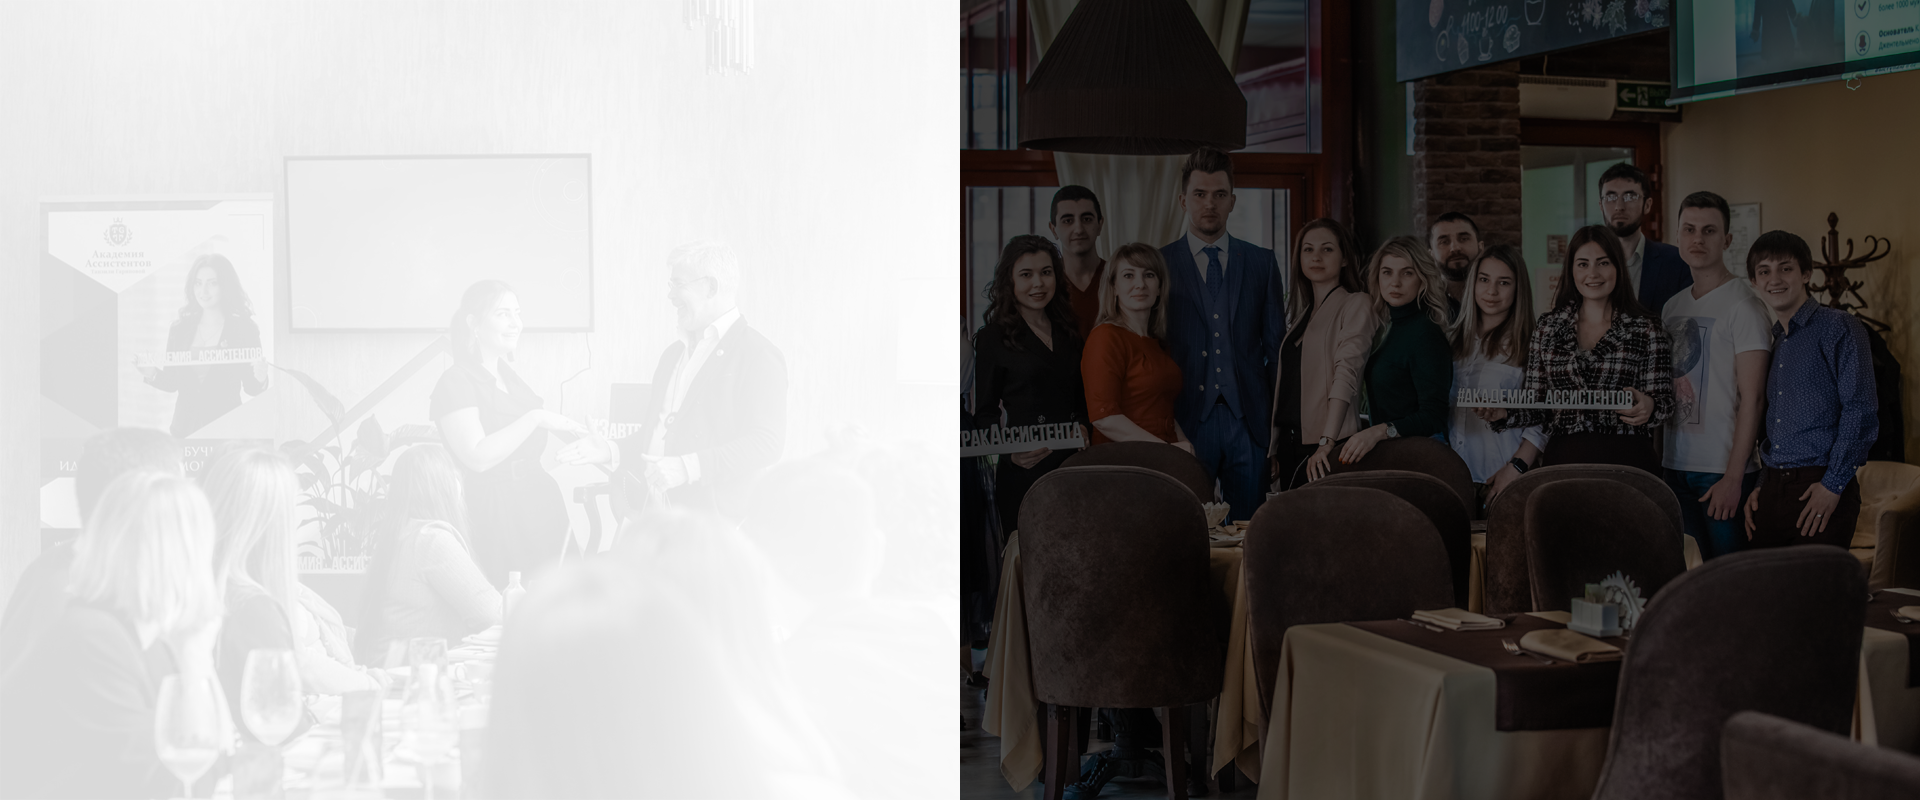
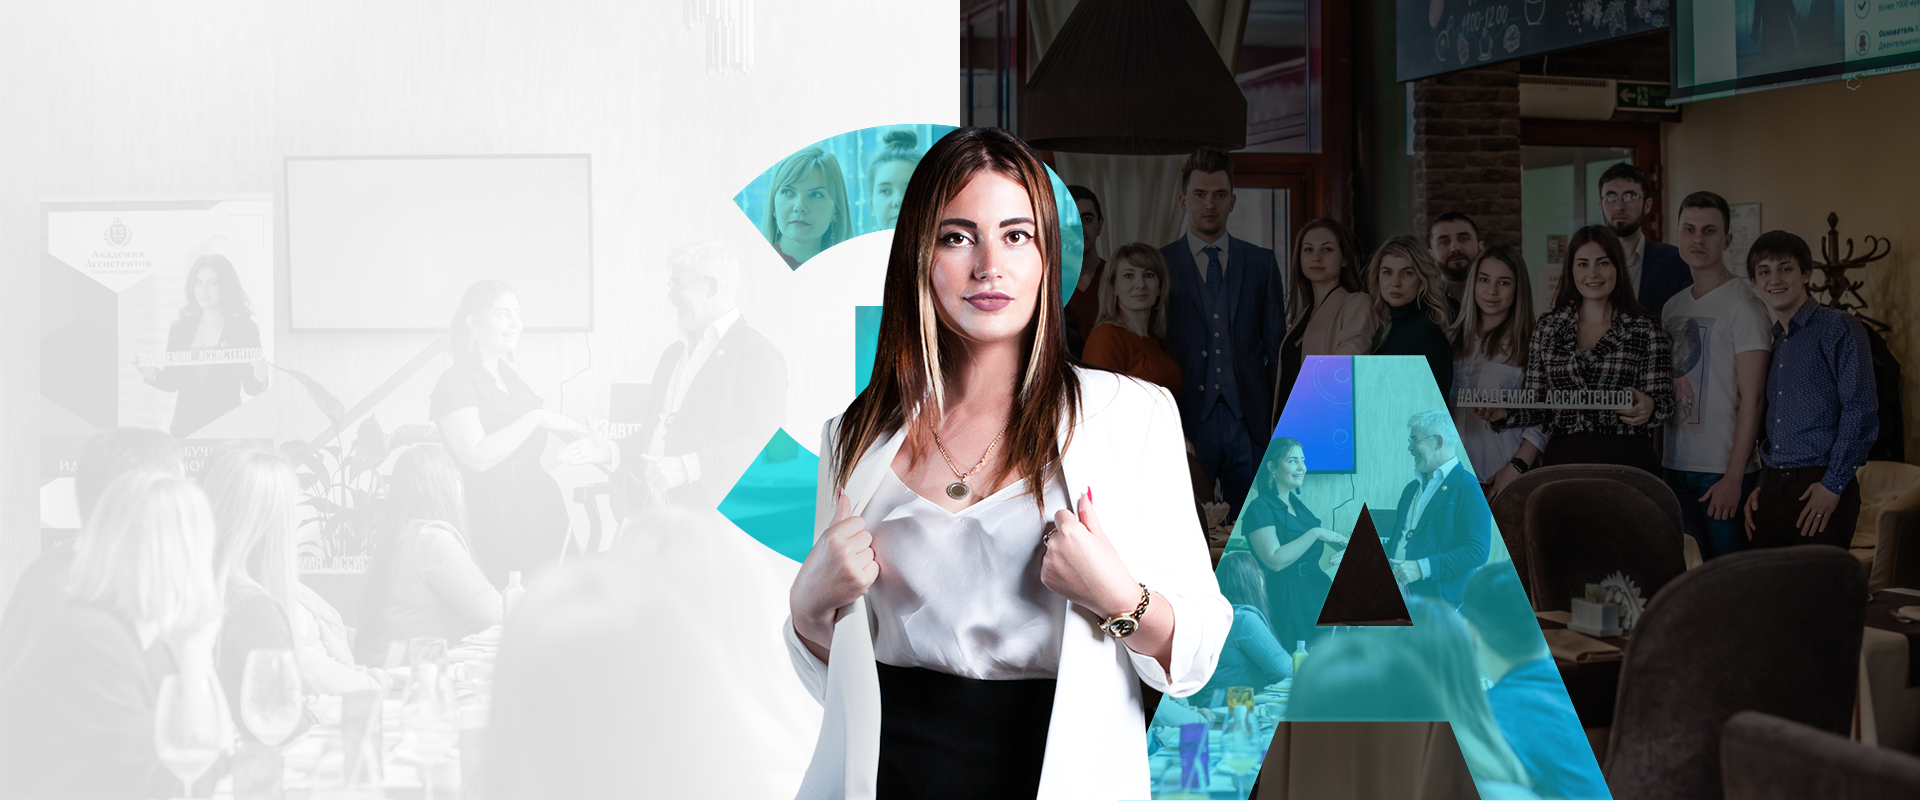
second block

Changed region(s): [[0.375, 0.1562, 0.8438, 1.0]]

diff --git a/index.html b/index.html
@@ -30,7 +30,7 @@
                 <div class="header-main">
                     <div class="header-main__text">
                         <h1>Завтрак<br>
-                            <span>ассистента</span></h1>
+                            <span class='blue'>ассистента</span></h1>
                         <div class="header-main__text__desc">Для личностного роста</div>
                         <!-- /.header-main__text__desc -->
                         <div class="header-main__text__desc_small">помощников и руководителей</div>
@@ -38,23 +38,81 @@
                         <button class="button">Записаться на завтрак</button>
                     </div>
                     <!-- /.header-main__text -->
-                    <div class="header-main__images">
-                        <div class="header-main__z">
-                                <img src="img/z.png" alt="">
-                            </div>
-                            <!-- /.header-main__z -->
-                            <div class="header-main__girl">
-                                <img src="img/girl.png" alt="">
-                            </div>
-                            <!-- /.header-main__girl -->
-                            <div class='header-main__a'>
-                                <img src="img/a.png" alt="">
-                            </div>
                         </div>
                         <!-- /.header-main -->
                     </div>
         </div>
     </header>
     <!-- /.header -->
+    
+    <section class="section-value">
+        <div class="section-title">
+                для <span class="blue">кого?</span>
+        </div>
+        <!-- /.section-title -->
+            <div class="section-value__advantages__wrap">
+                <div class="section-value__advantages">
+                    <img src="img/money.png" alt="">
+                    <p>Увеличите доход<br>
+                        в 2 раза</p>
+                </div>
+                <!-- /.section-value__advantages -->
+                <div class="section-value__advantages">
+                    <img src="img/lamp.png" alt="">
+                    <p>Правильное<br>
+                        окружение</p>
+                </div>
+                <!-- /.section-value__advantages -->
+                <div class="section-value__advantages">
+                    <img src="img/speakers.png" alt="">
+                    <p>Разборы<br>
+                        от спикеров</p>
+                </div>
+                <!-- /.section-value__advantages -->
+                <div class="section-value__advantages">
+                    <img src="img/exp.png" alt="">
+                    <p>Обмен<br>
+                        опытом</p>
+                </div>
+                <!-- /.section-value__advantages -->
+            </div>
+            <!-- /.section-value__advantages__wrap -->
+            <div class="section-value-forWhat">
+                <div class="section-title">зачем нужен <span class="blue">завтрак</span></div>
+                <!-- /.section-title -->
+                <div class="section-value-forWhat__desc">Вы – это среднее арифметическое из 10 людей<br>
+                        вашего ближайшего окружения</div>
+                <!-- /.section-value-forWhat__desc -->
+                <div class="section-value-forWhat__blocks">
+                    <div class="section-value-forWhat__block">
+                        <img src="img/assistant.png" alt="">
+                        <p>Для тех, кто хочет<br>
+                                стать ассистентом</p>
+                    </div>
+                    <!-- /.section-value-forWhat__block -->
+                    <div class="section-value-forWhat__block">
+                        <img src="img/cofe.png" alt="">
+                        <p>Для действующих<br>
+                                ассистентов</p>
+                    </div>
+                    <!-- /.section-value-forWhat__block -->
+                    <div class="section-value-forWhat__block">
+                        <img src="img/start.png" alt="">
+                        <p>Для начинающих<br>
+                                предпринимателей</p>
+                    </div>
+                    <!-- /.section-value-forWhat__block -->
+                    <div class="section-value-forWhat__block">
+                        <img src="img/buisness.png" alt="">
+                        <p>Для крупных<br>
+                                бизнесменов</p>
+                    </div>
+                    <!-- /.section-value-forWhat__block -->
+                </div>
+                <!-- /.section-value-forWhat__blocks -->
+            </div>
+            <!-- /.section-value-forWhat -->
+    </section>
+    <!-- /.section-value -->
 </body>
 </html>

diff --git a/css/style.css b/css/style.css
@@ -146,10 +146,6 @@ body {
   font-family: 'BebasNeue Regular';
 }
 
-.header-main__text h1 span {
-  color: #17dee9;
-}
-
 .button-o {
   margin-top: 29px;
   text-transform: uppercase;
@@ -195,4 +191,87 @@ body {
   letter-spacing: 0.7px;
   text-align: center;
   outline: none;
+}
+
+.blue {
+  color: #17dee9;
+}
+
+.section-title {
+  font-family: 'BebasNeue Regular';
+  color: #303030;
+  font-size: 60px;
+  font-weight: 400;
+  font-style: italic;
+  letter-spacing: 3.76px;
+  text-align: center;
+  margin-top: 61px;
+}
+
+.section-value__advantages {
+  text-align: center;
+}
+
+.section-value__advantages__wrap {
+  display: -webkit-box;
+  display: -ms-flexbox;
+  display: flex;
+  -ms-flex-pack: distribute;
+  justify-content: space-around;
+  margin: 0 auto;
+  margin-top: 37px;
+  width: 1200px;
+}
+
+.section-value__advantages img {
+  -webkit-box-shadow: inset 0 2px 3px rgba(255, 255, 255, 0.15), inset 0 -3px 3px rgba(255, 255, 255, 0.1);
+  box-shadow: inset 0 2px 3px rgba(255, 255, 255, 0.15), inset 0 -3px 3px rgba(255, 255, 255, 0.1);
+}
+
+.section-value__advantages p {
+  color: #303030;
+  font-family: Gilroy;
+  font-size: 20px;
+  font-weight: 700;
+  line-height: 26px;
+  letter-spacing: 0.2px;
+}
+
+.section-value-forWhat {
+  text-align: center;
+}
+
+.section-value-forWhat__desc {
+  color: #303030;
+  font-family: Gilroy;
+  font-size: 20px;
+  font-weight: 500;
+  line-height: 26px;
+  letter-spacing: 0.2px;
+  margin-top: 18px;
+}
+
+.section-value-forWhat__blocks {
+  display: -webkit-box;
+  display: -ms-flexbox;
+  display: flex;
+  -ms-flex-pack: distribute;
+  justify-content: space-around;
+  margin: 0 auto;
+  margin-top: 37px;
+  width: 1200px;
+}
+
+.section-value-forWhat__block img {
+  -webkit-box-shadow: inset 0 2px 3px rgba(255, 255, 255, 0.15), inset 0 -3px 3px rgba(255, 255, 255, 0.1);
+  box-shadow: inset 0 2px 3px rgba(255, 255, 255, 0.15), inset 0 -3px 3px rgba(255, 255, 255, 0.1);
+}
+
+.section-value-forWhat__block p {
+  color: #303030;
+  font-family: Gilroy;
+  font-size: 20px;
+  font-weight: 700;
+  line-height: 26px;
+  letter-spacing: 0.2px;
 }

diff --git a/scss/_value.scss b/scss/_value.scss
@@ -1,0 +1,69 @@
+.section-value {
+
+    &__advantages {
+        text-align: center;
+
+        &__wrap {
+            display: flex;
+            justify-content: space-around;
+            margin: 0 auto;
+            margin-top: 37px;
+            width: 1200px;
+        }
+
+        img {
+            box-shadow: inset 0 2px 3px rgba(255, 255, 255, 0.15), inset 0 -3px 3px rgba(255, 255, 255, 0.1);
+        }
+
+        p {
+            color: #303030;
+            font-family: Gilroy;
+            font-size: 20px;
+            font-weight: 700;
+            line-height: 26px;
+            letter-spacing: 0.2px;
+        }
+
+    }
+
+    &-forWhat {
+        text-align: center;
+
+        &__desc {
+            color: #303030;
+            font-family: Gilroy;
+            font-size: 20px;
+            font-weight: 500;
+            line-height: 26px;
+            letter-spacing: 0.2px;
+            margin-top: 18px;
+        }
+
+        &__block {
+
+            &s {
+                display: flex;
+                justify-content: space-around;
+                margin: 0 auto;
+                margin-top: 37px;
+                width: 1200px;
+            }
+
+            img {
+                box-shadow: inset 0 2px 3px rgba(255, 255, 255, 0.15), inset 0 -3px 3px rgba(255, 255, 255, 0.1);
+            }
+
+            p {
+                color: #303030;
+                font-family: Gilroy;
+                font-size: 20px;
+                font-weight: 700;
+                line-height: 26px;
+                letter-spacing: 0.2px;
+            }
+
+        }
+
+    }
+
+}

diff --git a/scss/_interface.scss b/scss/_interface.scss
@@ -40,3 +40,18 @@
     text-align: center;
     outline: none;
 }
+
+.blue {
+    color: #17dee9;
+}
+
+.section-title {
+    font-family: 'BebasNeue Regular';
+    color: #303030;
+    font-size: 60px;
+    font-weight: 400;
+    font-style: italic;
+    letter-spacing: 3.76px;
+    text-align: center;
+    margin-top: 61px;
+}

diff --git a/scss/_header.scss b/scss/_header.scss
@@ -108,11 +108,6 @@
                 font-weight: 400;
                 font-style: italic;
                 font-family: 'BebasNeue Regular';
-
-                span {
-                    color: #17dee9;
-                }
-
             }
         }
 

diff --git a/scss/style.scss b/scss/style.scss
@@ -23,3 +23,4 @@ body {
 
 @import 'header';
 @import 'interface';
+@import 'value';
